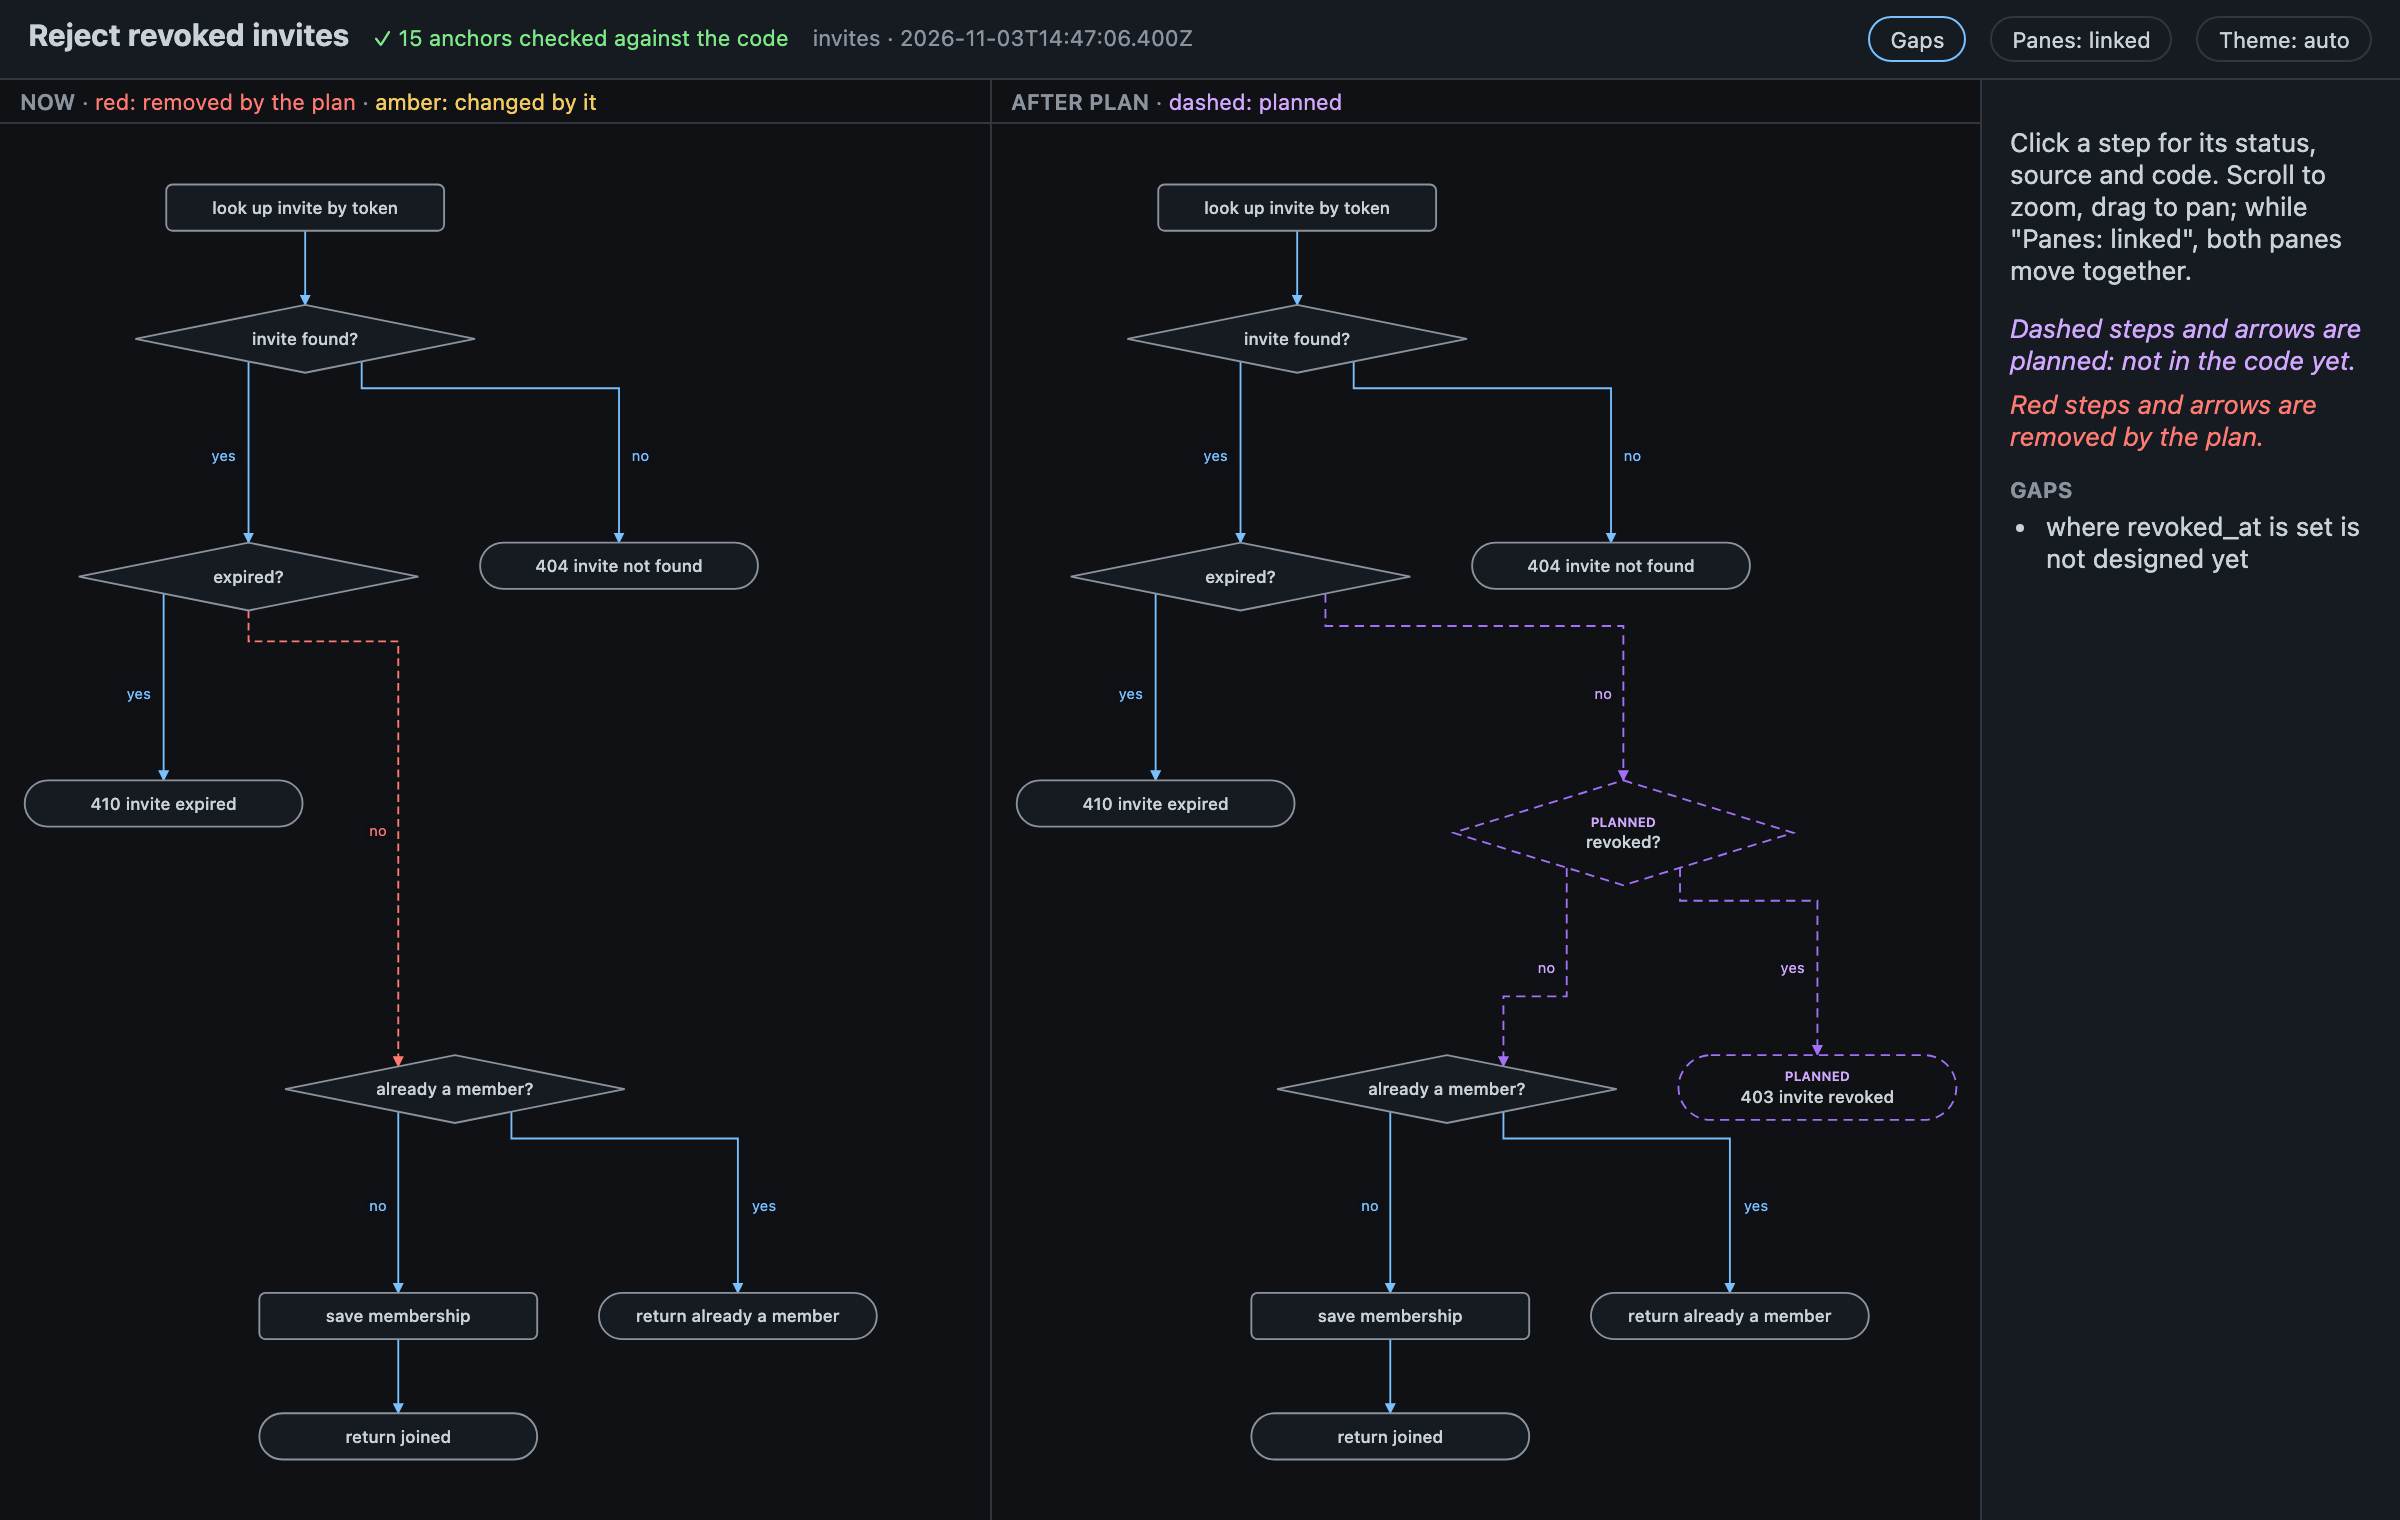
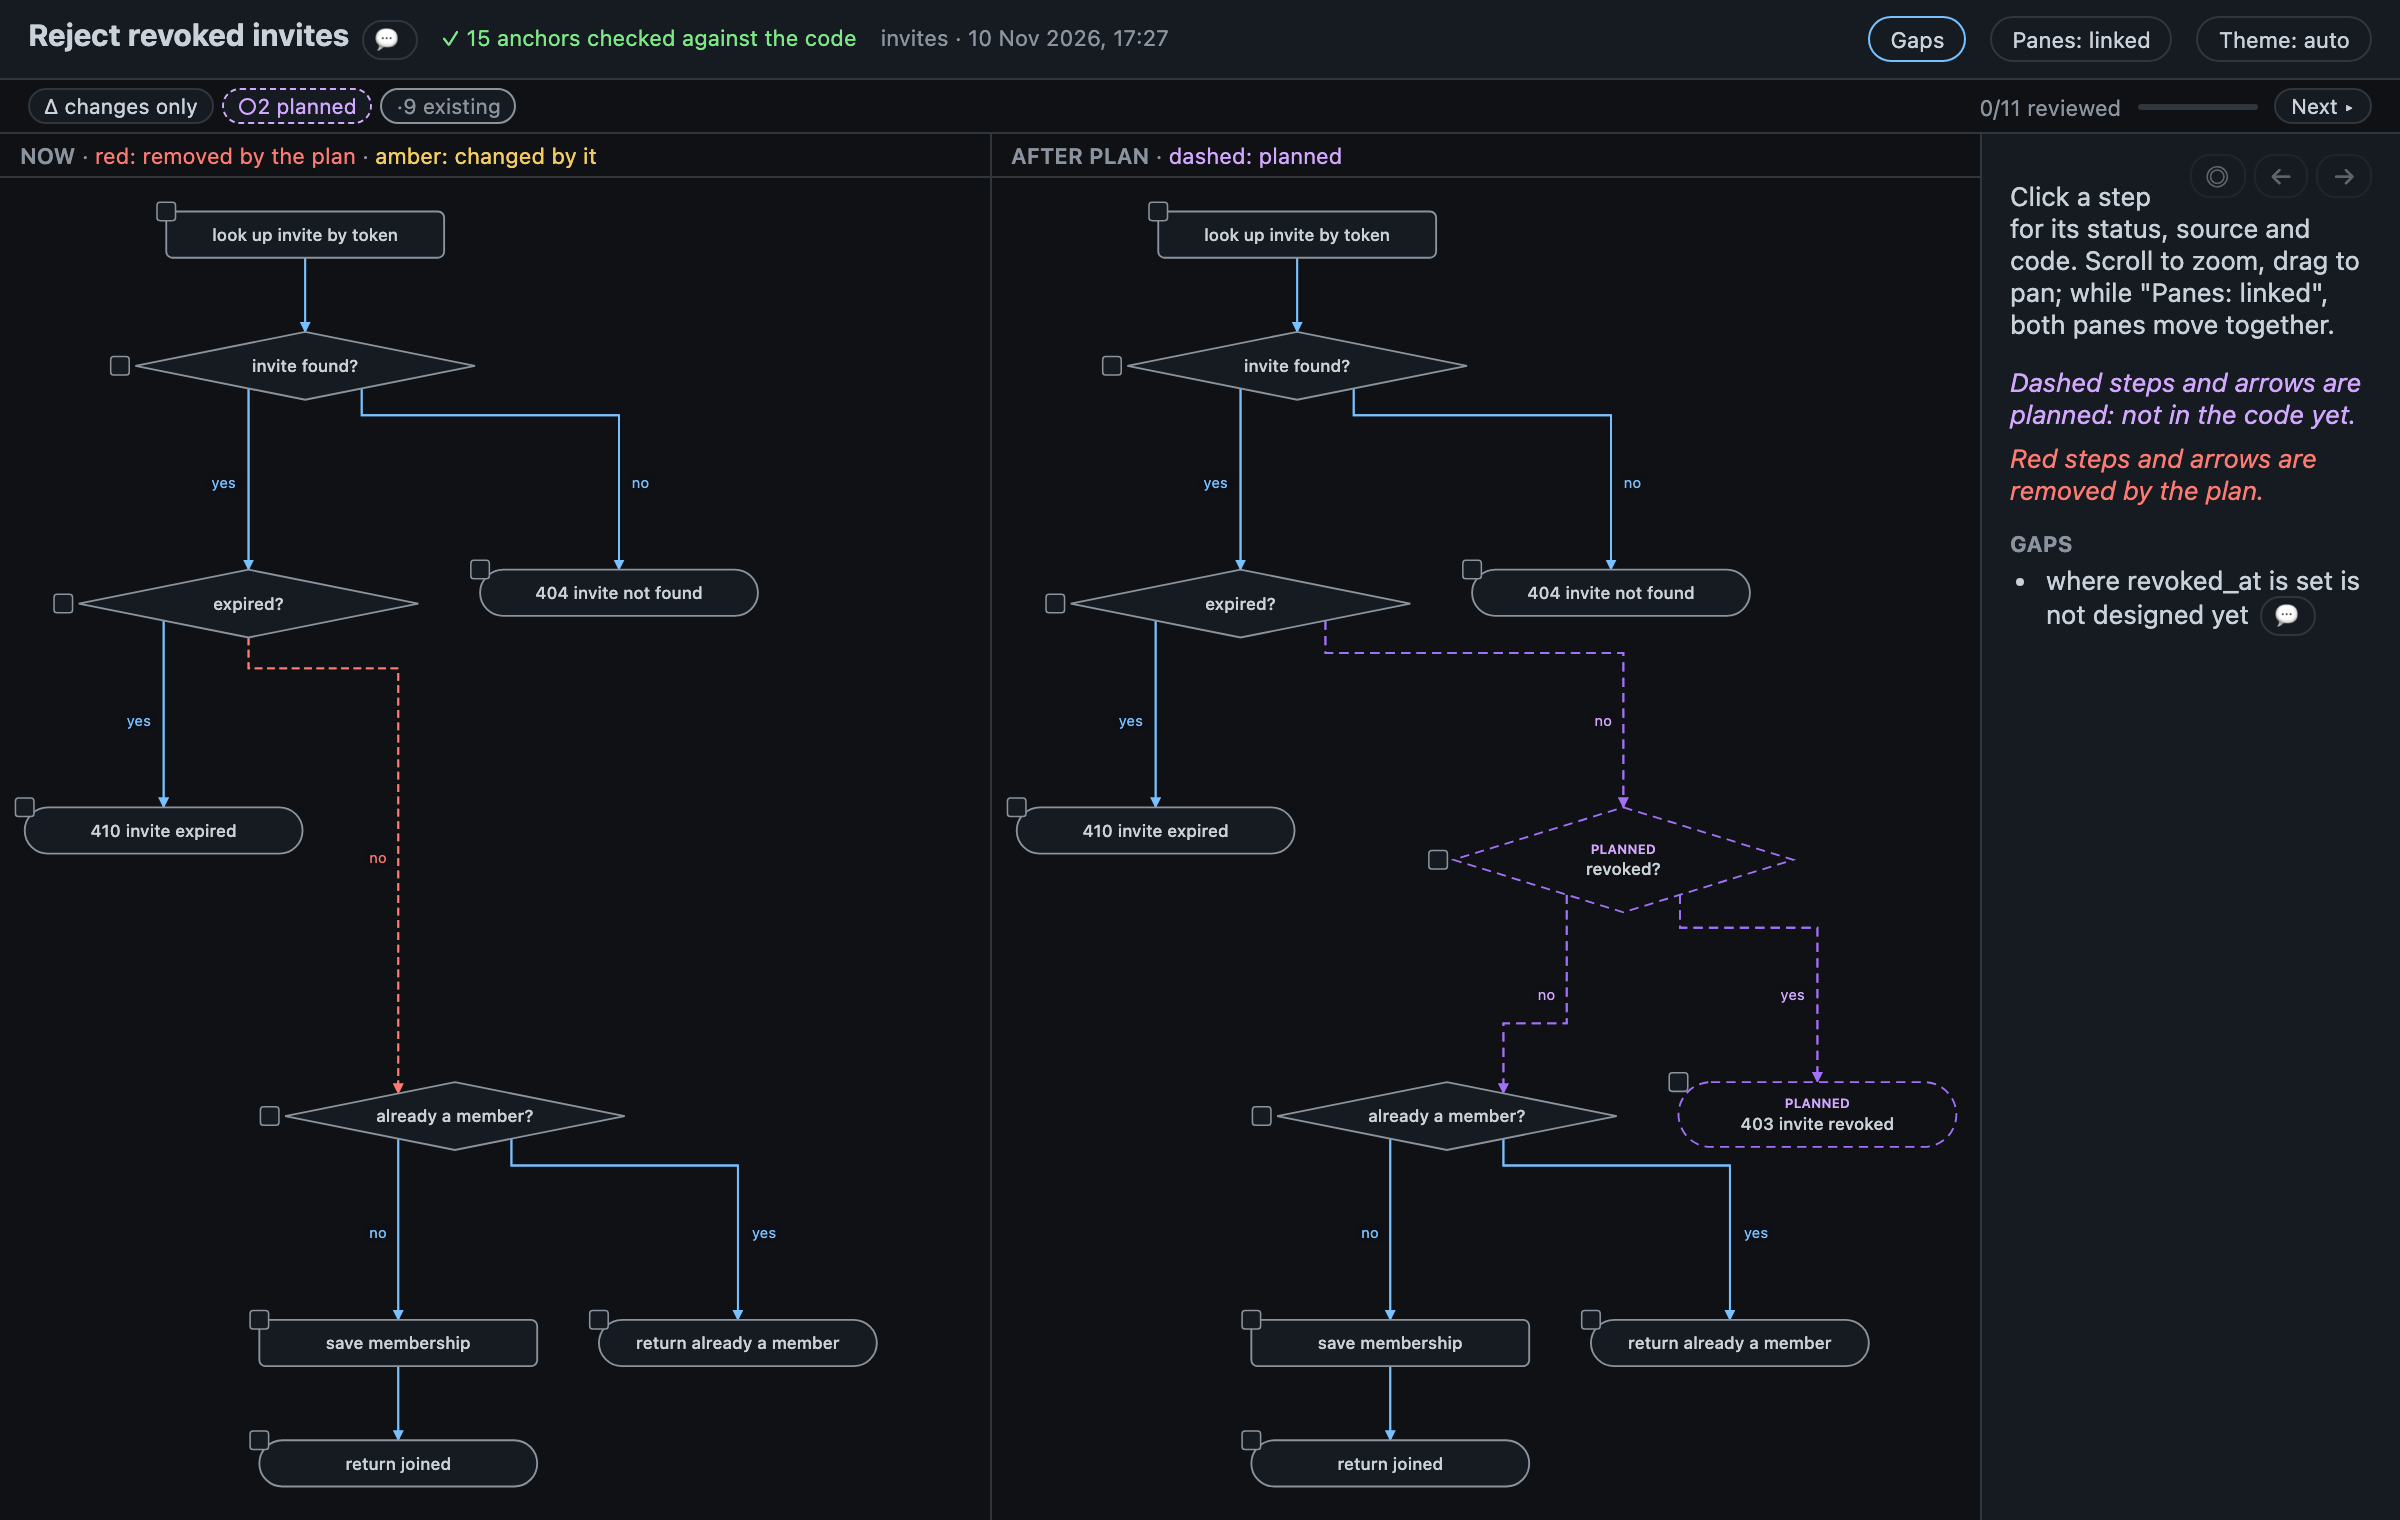
Explain map: underlined main tabs, separate flow sub-tab row; decision tickbox at the diamond's left point

diff --git a/src/render/web/explain-flows-html.ts b/src/render/web/explain-flows-html.ts
@@ -27,11 +27,16 @@ export const VIEW_CSS = `
 .defs{position:absolute;width:0;height:0}
 .view{flex:1;min-width:0;min-height:0;display:flex}.view[hidden]{display:none}
 #view-bar{background:var(--panel);border-bottom:1px solid var(--line)}
-#view-tabs,#flow-tabs{display:flex;flex-wrap:wrap;gap:4px;padding:6px 14px}#flow-tabs{padding-top:0}#flow-tabs[hidden]{display:none}
-#view-bar button{padding:3px 12px;font:12px system-ui,sans-serif;color:var(--muted);background:none;border:1px solid transparent;border-radius:12px;cursor:pointer}
-#view-bar button:hover{color:var(--text)}
-#view-bar button[aria-selected="true"]{color:var(--text);font-weight:600;border-color:var(--edge)}
-#flow-tabs button{font-size:11px}
+#view-tabs{display:flex;flex-wrap:wrap;gap:20px;padding:0 14px}
+#view-tabs button{padding:8px 2px 6px;font:600 13px system-ui,sans-serif;color:var(--muted);background:none;border:0;border-bottom:2px solid transparent;border-radius:0;cursor:pointer}
+#view-tabs button:hover{color:var(--text)}
+#view-tabs button[aria-selected="true"]{color:var(--text);border-bottom-color:var(--edge)}
+#flow-tabs{display:flex;flex-wrap:wrap;align-items:center;gap:4px;padding:6px 14px;background:var(--bg);border-top:1px solid var(--line)}#flow-tabs[hidden]{display:none}
+#flow-tabs::before{content:"Flow:";margin-right:4px;font:11px system-ui,sans-serif;color:var(--muted)}
+#flow-tabs button{padding:2px 10px;font:11px system-ui,sans-serif;color:var(--muted);background:none;border:1px solid transparent;border-radius:11px;cursor:pointer}
+#flow-tabs button:hover{color:var(--text)}
+#flow-tabs button[aria-selected="true"]{color:var(--text);background:var(--panel);border-color:var(--line)}
+#view-bar button:focus-visible{outline:2px solid var(--edge);outline-offset:2px}
 [data-only-view][hidden]{display:none!important}
 #review{margin-left:auto}
 aside .partof{margin:6px 0}

diff --git a/tests/render/flow-html.test.ts b/tests/render/flow-html.test.ts
@@ -201,3 +201,38 @@ describe('renderFlowHtml', () => {
     expect(out).toContain('&lt;/template&gt;&lt;/script&gt;&lt;script&gt;alert(1)');
   });
 });
+
+describe('step tickbox position', () => {
+  const hit = (body: string) => {
+    const m = body.match(/class="tick-hit" x="([-\d.]+)" y="([-\d.]+)" width="18" height="18"/)!;
+    return { cx: Number(m[1]) + 9, cy: Number(m[2]) + 9 };
+  };
+
+  it('sits at the left point of a decision, outside the diamond', async () => {
+    const spec = sampleFlow();
+    const b = (await layoutFlow(spec)).nodes.find((n) => n.id === 'mode')!;
+    const { cx, cy } = hit(nodeOf(await html(spec), 'mode').body);
+    expect(cy).toBeCloseTo(b.y + b.h / 2, 1);
+    expect(cx).toBeLessThan(b.x);
+    expect(b.x - cx).toBeLessThanOrEqual(12);
+  });
+
+  it('stays on the top-left corner of other steps', async () => {
+    const spec = sampleFlow();
+    const b = (await layoutFlow(spec)).nodes.find((n) => n.id === 'read')!;
+    const { cx, cy } = hit(nodeOf(await html(spec), 'read').body);
+    expect([cx, cy]).toEqual([b.x, b.y]);
+  });
+
+  it('keeps clear of the edge labels of the decision', async () => {
+    const spec = sampleFlow();
+    const layout = await layoutFlow(spec);
+    const { cx, cy } = hit(nodeOf(await html(spec), 'mode').body);
+    for (const [i, e] of layout.edges.entries()) {
+      const link = spec.links[i]!;
+      if (!e.labelAt || (link.from !== 'mode' && link.to !== 'mode')) continue;
+      const l = e.labelAt;
+      expect(Math.hypot(l.x - cx, l.y - cy)).toBeGreaterThan(18);
+    }
+  });
+});

diff --git a/tests/render/explain-flows-page.test.ts b/tests/render/explain-flows-page.test.ts
@@ -328,3 +328,22 @@ describe('explain page with flows: look and notes', () => {
     expect(qa('.cm-note').length).toBe(1);
   });
 });
+
+describe('explain page with flows: tab styling', () => {
+  const css = () => q('style').textContent ?? '';
+
+  it('main tabs are underlined text, flow sub-tabs are small pills on their own row', async () => {
+    mount(await draw());
+    const c = css();
+    expect(c).toMatch(/#view-tabs button\[aria-selected="true"\]\{[^}]*border-bottom-color:var\(--edge\)/);
+    expect(c).not.toMatch(/#view-tabs button[^{]*\{[^}]*border-radius:1\d/);
+    expect(c).toMatch(/#flow-tabs\{[^}]*background:var\(--bg\)/);
+    expect(c).toMatch(/#flow-tabs::before\{content:"Flow:"/);
+    expect(c).toMatch(/#flow-tabs button\[aria-selected="true"\]\{[^}]*background:var\(--panel\)[^}]*border-color:var\(--line\)/);
+  });
+
+  it('keeps a visible keyboard focus on both tab rows', async () => {
+    mount(await draw());
+    expect(css()).toMatch(/#view-bar button:focus-visible\{outline:2px solid var\(--edge\)/);
+  });
+});

diff --git a/src/render/flow/html.ts b/src/render/flow/html.ts
@@ -33,6 +33,9 @@ aside .branches{padding-left:0;list-style:none}
 aside .branches li{margin:0 0 10px}
 `;
 
+/** How far left of a diamond's left point its tickbox is centred. */
+const DECISION_TICK_GAP = 10;
+
 function shape(step: FlowStep, b: FlowLayoutNode): string {
   if (step.type === 'decision') {
     const cx = b.x + b.w / 2;
@@ -72,7 +75,7 @@ function renderStep(step: FlowStep, b: FlowLayoutNode, flag: string, side: Side 
     flag +
     shape(step, b) +
     text +
-    (ghost ? '' : tickSvg(b.x, b.y)) +
+    (ghost ? '' : step.type === 'decision' ? tickSvg(b.x - DECISION_TICK_GAP, b.y + b.h / 2) : tickSvg(b.x, b.y)) +
     (flagged ? flagMark(b.x + b.w, b.y) : '') +
     (drift ? driftMark(drift, b.x + b.w, b.y + b.h + 8) : '') +
     `</g>`
